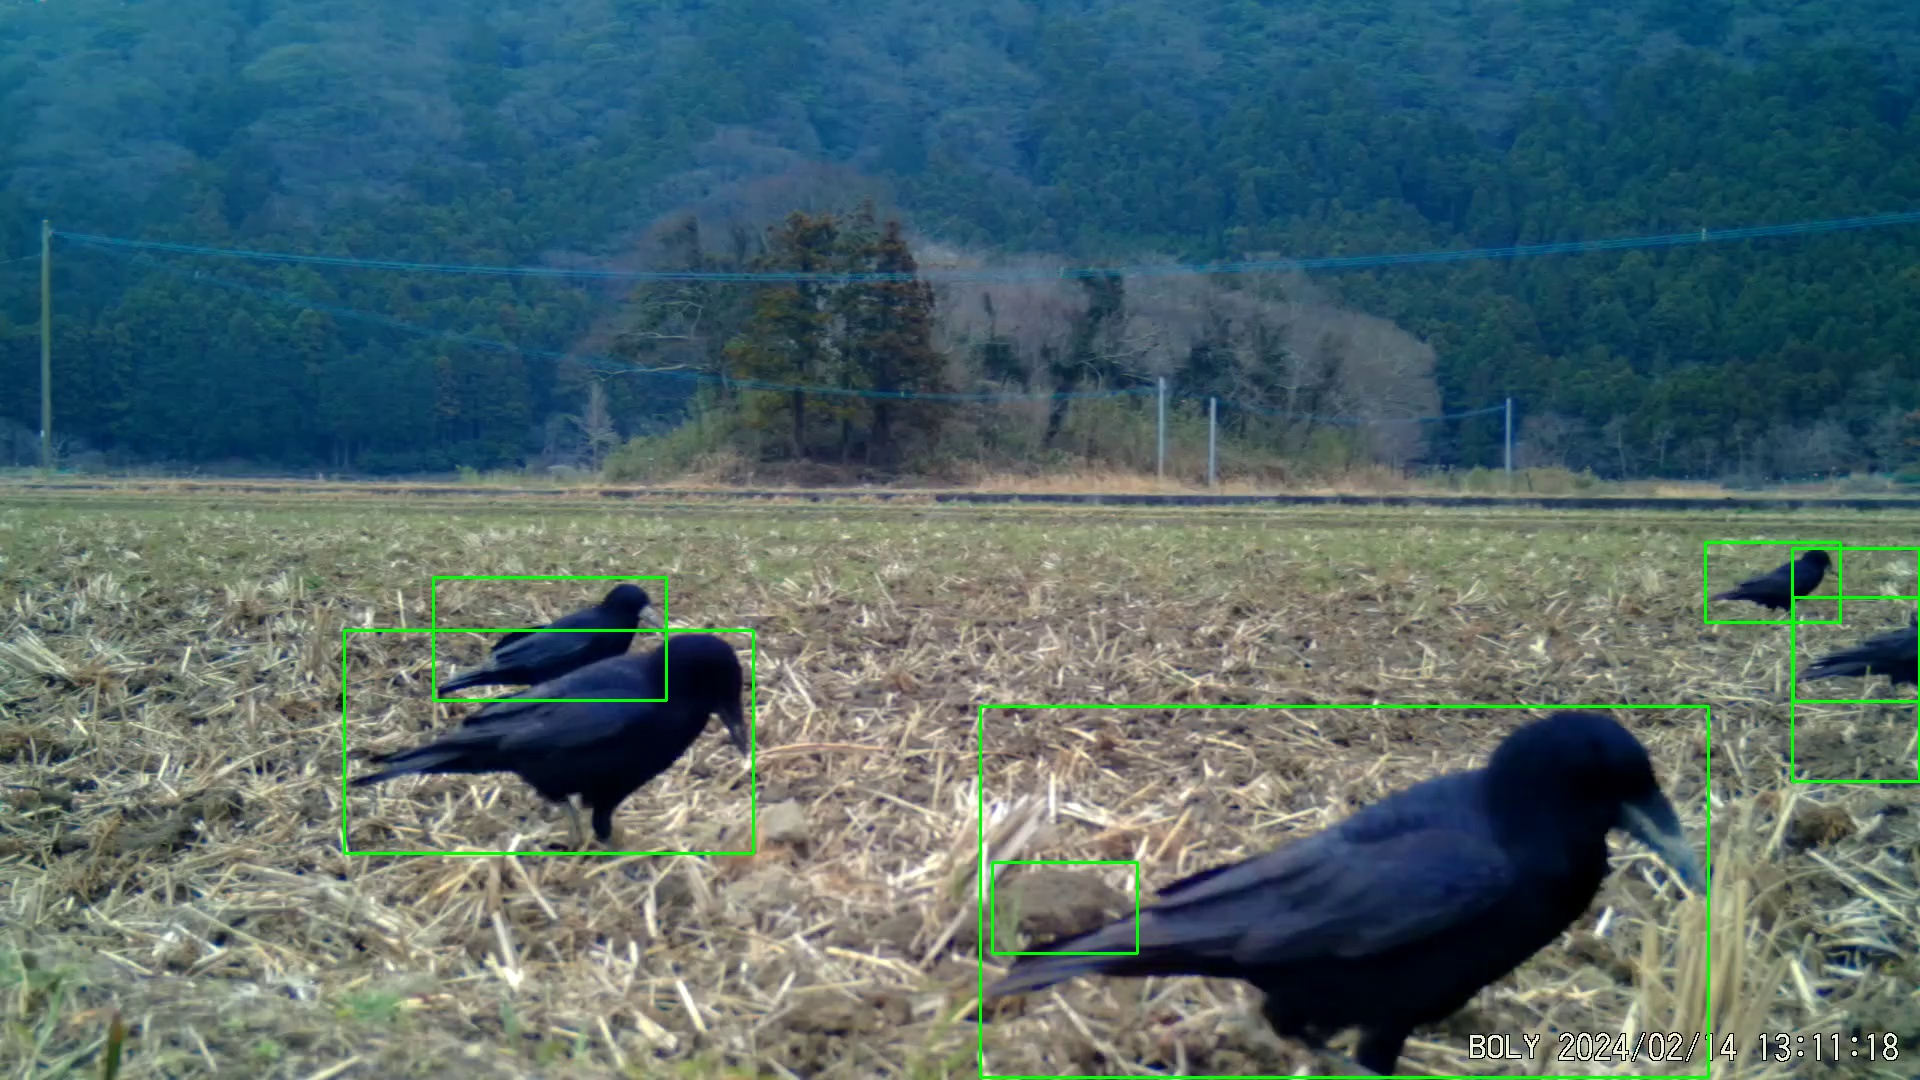
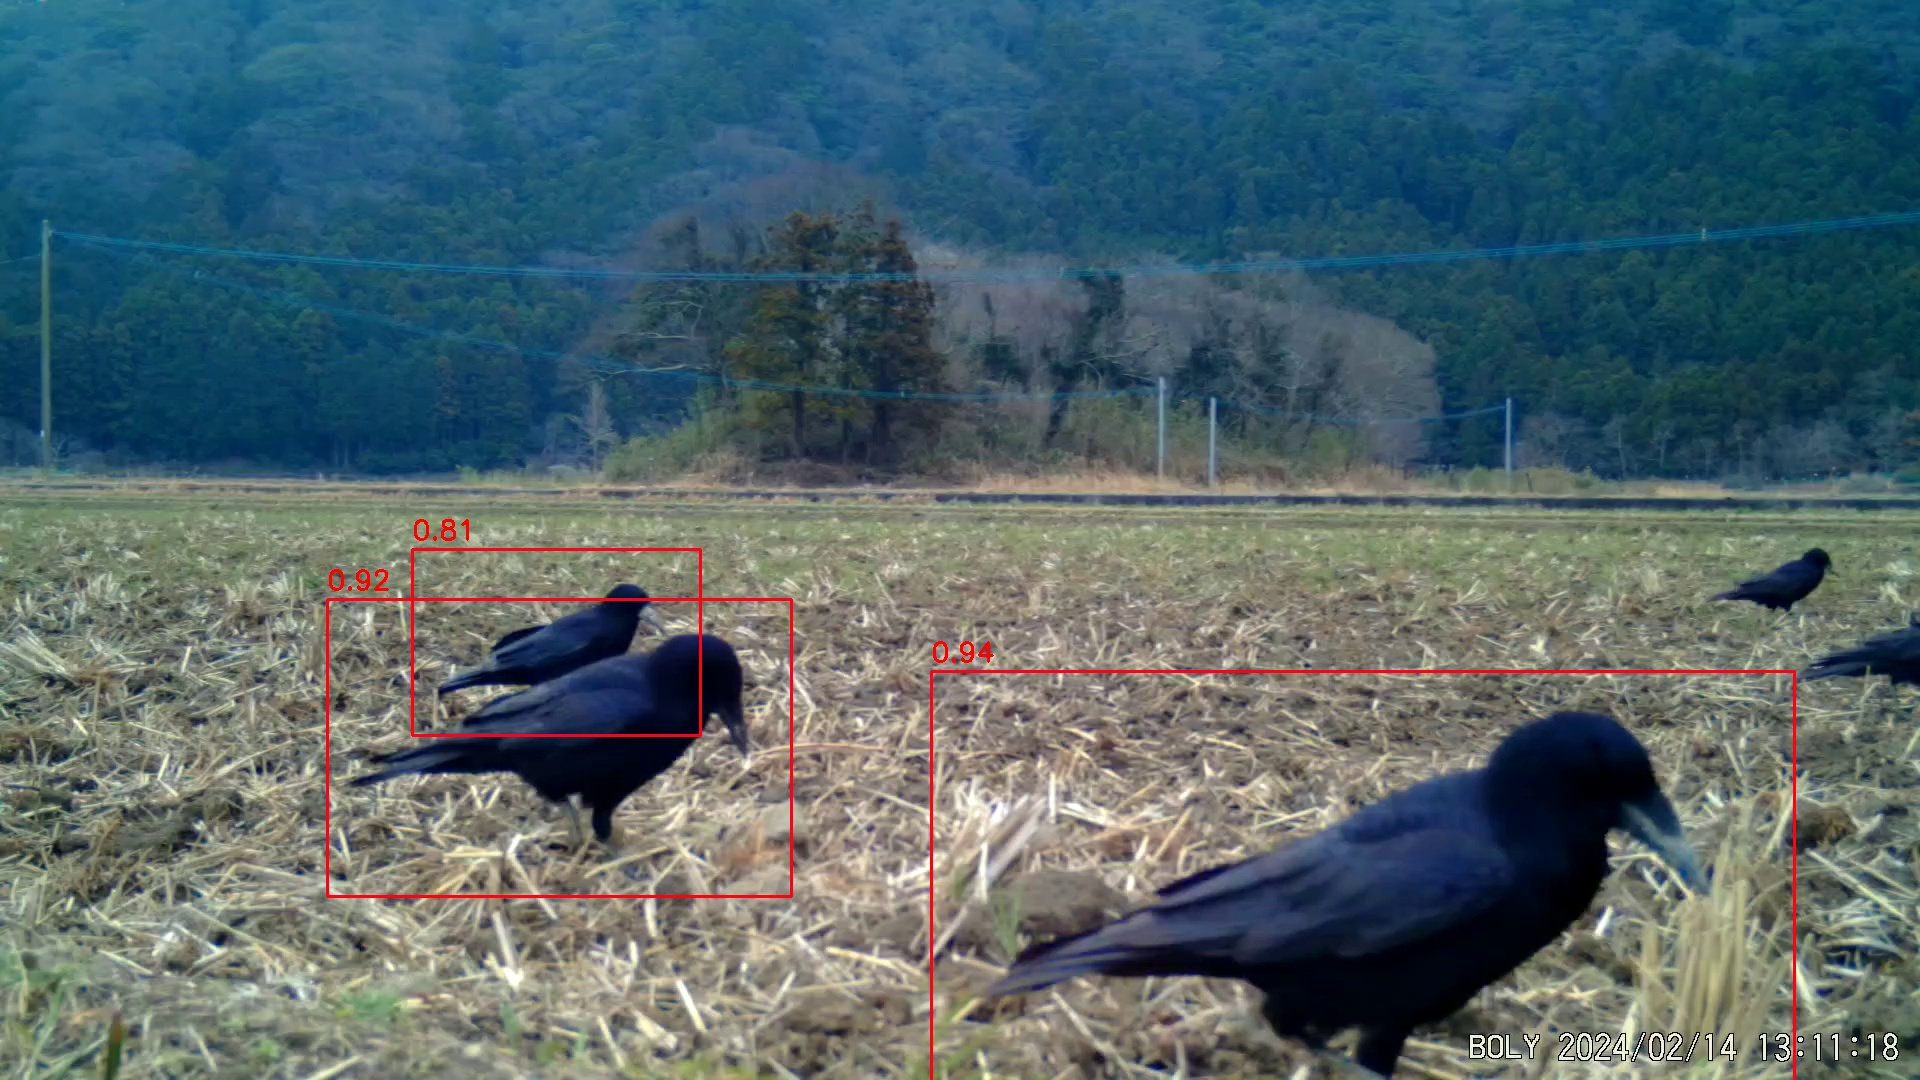
finish: detection &  to classification pipeline

diff --git a/animal-detection/megadetector_video_recursive.py b/animal-detection/megadetector_video_recursive.py
@@ -10,7 +10,7 @@ import json
 from megadetector.detection.run_detector_batch import load_and_run_detector_batch
 
 # User sets the input_folder
-input_folder = r"C:/yamaneko-kenkyu/data/30052024"  # 処理したい動画の回収日パス
+input_folder = r"C:/Users\dalca/OneDrive - nkz.ac.jp/Escritorio/test\data"  # 処理したい動画の回収日パス
 
 # Derive output_base and tracking_file from input_folder
 output_base = input_folder.replace("data", "p_data")
@@ -27,6 +27,7 @@ recursive = True
 overwrite = True
 parallelization_uses_threads = True
 n_threads = 8
+confidence_threshold = 0.5
 
 # Load existing tracking data if it exists
 if os.path.exists(tracking_file):
@@ -35,13 +36,14 @@ if os.path.exists(tracking_file):
 else:
     video_confidence_dict = {}
 
-# Prompt if a file or directory already exists
+# ディレクトリーが存在したら続けるかどうかを尋ねる
 def prompt_overwrite(path):
     while True:
         response = input(f"'{path}' already exists. Do you want to overwrite it? (y/n): ").lower()
         if response in ['y', 'n']:
             return response == 'y'
     return True
+
 #動画をコマに分ける
 def split_videos():
     if os.path.exists(tracking_file) and not prompt_overwrite(output_base):
@@ -56,6 +58,7 @@ def split_videos():
                                            every_n_frames=every_n_frames,
                                            parallelization_uses_threads=parallelization_uses_threads)
     return frame_filenames_by_video, fs_by_video, video_filenames
+
 #コマをフォーマットの通りに保存
 def list_videos():
     frame_files = path_utils.find_images(output_base, True)
@@ -75,6 +78,7 @@ def list_videos():
     print('Input folder contains {} videos'.format(len(video_filenames)))
 
     return video_filenames, folder_to_frame_files
+
 #コマに問題あるか確認
 def problem_check(video_filenames, folder_to_frame_files):
     missing_videos = [fn for fn in video_filenames if fn not in folder_to_frame_files]
@@ -87,6 +91,7 @@ def problem_check(video_filenames, folder_to_frame_files):
 
     print('Videos that could not be decoded:\n', '\n'.join(missing_videos))
     print('\nVideos with fewer than {} decoded frames:\n'.format(min_frames_for_valid_video), '\n'.join(low_frame_videos))
+
 #AIモデルを実行
 def run_megadetector(directory_path, every_n_frames):
     output_json = os.path.join(directory_path, 'detections.json')
@@ -110,7 +115,7 @@ def run_megadetector(directory_path, every_n_frames):
     results = load_and_run_detector_batch(model_file=model_file,
                                           image_file_names=all_images,
                                           checkpoint_path=None,
-                                          confidence_threshold=None,
+                                          confidence_threshold=confidence_threshold,
                                           checkpoint_frequency=None,
                                           results=None,
                                           n_cores=1,
@@ -124,10 +129,10 @@ def run_megadetector(directory_path, every_n_frames):
     print(f"Wrote results to {output_json}")
 
     return results, all_images
+
 #認識結果を処理
 def process_detections(directory_path, results, all_images, every_n_frames):
     output_json = os.path.join(directory_path, 'detections.json')
-    confidence_threshold = 0.7
     min_frames_interval = 3  # Minimum frame interval to prevent infinite recursion
 
     # Track highest confidence score and check if any detection exceeds 0.15
@@ -177,6 +182,7 @@ def process_detections(directory_path, results, all_images, every_n_frames):
         print(f"Wrote results for the best frame to {output_json}")
     else:
         print("No frames had detections")
+
 #船頭がの動物認識情報をJsonに保存
 def save_video_confidence_dict():
     if os.path.exists(tracking_file) and not prompt_overwrite(tracking_file):
@@ -185,6 +191,7 @@ def save_video_confidence_dict():
     with open(tracking_file, 'w') as f:
         json.dump(video_confidence_dict, f, indent=2)
     print(f"Saved video confidence tracking to {tracking_file}")
+
 #認識できなかった動画のみAIモデルを再実行
 def split_videos_with_new_interval(directory_path, new_every_n_frames):
     print(f"Splitting videos with a new frame interval of {new_every_n_frames}")
@@ -193,8 +200,9 @@ def split_videos_with_new_interval(directory_path, new_every_n_frames):
                                            output_folder=directory_path.replace('data','p_data'),
                                            overwrite=True,
                                            every_n_frames=new_every_n_frames)
+
 #detectionボックスを描画
-def draw_detections_on_frame(frame_path, detections_json):
+def draw_detections_on_frame(frame_path):
     """
     Draws detections on the frame.
 
@@ -216,7 +224,7 @@ def draw_detections_on_frame(frame_path, detections_json):
     draw_detections_on_frame(frame_path, detections)
 
     """
-
+    detections_json = os.path.dirname(frame_path)+'/detections.json'
     # Open and read the JSON file
     with open(detections_json, 'r') as file:
         detections = json.load(file)[0]['detections']
@@ -231,27 +239,26 @@ def draw_detections_on_frame(frame_path, detections_json):
 
     for detection in detections:
         bbox = detection['bbox']
-        print(bbox)
         confidence = detection['conf']
-        
-        # Extract the image dimensions
-        height, width, _ = image.shape
+        if confidence > confidence_threshold:
+            # Extract the image dimensions
+            height, width, _ = image.shape
 
-        # Extract the coordinates (assuming bbox contains [x_min, y_min, width, height] in percentages)
-        x_min, y_min, bbox_width, bbox_height = bbox
+            # Extract the coordinates (assuming bbox contains [x_min, y_min, width, height] in percentages)
+            x_min, y_min, bbox_width, bbox_height = bbox
 
-        # Convert percentages to pixel values
-        x_min_pixel = int(x_min * width)
-        y_min_pixel = int(y_min * height)
-        x_max_pixel = int((x_min + bbox_width) * width)
-        y_max_pixel = int((y_min + bbox_height) * height)
+            # Convert percentages to pixel values
+            x_min_pixel = int(x_min * width*0.95)
+            y_min_pixel = int(y_min * height*0.95)
+            x_max_pixel = int((x_min + bbox_width) * width*1.05)
+            y_max_pixel = int((y_min + bbox_height) * height*1.05)
 
-        # Draw the bounding box
-        cv2.rectangle(image, (x_min_pixel, y_min_pixel), (x_max_pixel, y_max_pixel), (0, 255, 0), 2)
-        
-        # Put the confidence score
-        label = f'{confidence:.2f}'
-        cv2.putText(image, label, (int(x_min), int(y_min) - 10), cv2.FONT_HERSHEY_SIMPLEX, 0.9, (0, 255, 0), 2)
+            # Draw the bounding box
+            cv2.rectangle(image, (x_min_pixel, y_min_pixel), (x_max_pixel, y_max_pixel), (20, 0, 255), 2)
+            
+            # Put the confidence score
+            label = f'{confidence:.2f}'
+            cv2.putText(image, label, (int(x_min_pixel), int(y_min_pixel) - 10), cv2.FONT_HERSHEY_SIMPLEX, 0.9, (0, 0, 255), 2)
 
     # Save the image with detections
     output_path = frame_path.replace('.jpg', '_detections.jpg')
@@ -259,26 +266,36 @@ def draw_detections_on_frame(frame_path, detections_json):
     print(f"Saved image with detections to {output_path}")
 
 def main():
-    # split_videos()
-    # video_filenames, folder_to_frame_files = list_videos()
-    # problem_check(video_filenames, folder_to_frame_files)
+    split_videos()
+    video_filenames, folder_to_frame_files = list_videos()
+    problem_check(video_filenames, folder_to_frame_files)
     
-    # for root, dirs, files in os.walk(output_base):
-    #     for directory in dirs:
-    #         directory_path = os.path.join(root, directory)
-    #         print(f"Processing directory: {directory_path}")
-    #         jpeg_files = path_utils.find_images(directory_path, recursive=False, convert_slashes=True)
-    #         if jpeg_files:
-    #             results, all_images = run_megadetector(directory_path, every_n_frames)
-    #             if results and all_images:
-    #                 process_detections(directory_path, results, all_images, every_n_frames)
-    #             else:
-    #                 print(f"Skipping processing for {directory_path} as MegaDetector did not run.")
-    #         else:
-    #             print(f"No images found in {directory_path}")
+    #output_base : data
+    #dirs : folders under base (coordenates)
+    #root : after the date folder it keeps crawling through all
+    for root, dirs, files in os.walk(output_base):
+        #directory : every dir in dirs
+        for directory in dirs:
 
-    # save_video_confidence_dict()
-    draw_detections_on_frame("C:\yamaneko-kenkyu\p_data/30052024/34.6225665-129.3414982\karasu.mp4/frame000000.jpg","C:\yamaneko-kenkyu\p_data/30052024/34.6225665-129.3414982\karasu.mp4\detections.json")
+            directory_path = os.path.join(root, directory)
+            print(f"Processing directory: {directory_path}")
+            jpeg_files = path_utils.find_images(directory_path, recursive=False, convert_slashes=True)
+
+            if jpeg_files:
+                results, all_images = run_megadetector(directory_path, every_n_frames)
+                if results and all_images:
+                    process_detections(directory_path, results, all_images, every_n_frames)
+                    #check for existence of jpeg files after processing
+                    jpeg_files = path_utils.find_images(directory_path, recursive=False, convert_slashes=True)
+                    if jpeg_files:
+                        #draw detection box onto frame
+                        draw_detections_on_frame(jpeg_files[0])
+                else:
+                    print(f"Skipping processing for {directory_path} as MegaDetector did not run.")
+            else:
+                print(f"No images found in {directory_path}")
+
+    save_video_confidence_dict()
 
 if __name__ == "__main__":
     main()
